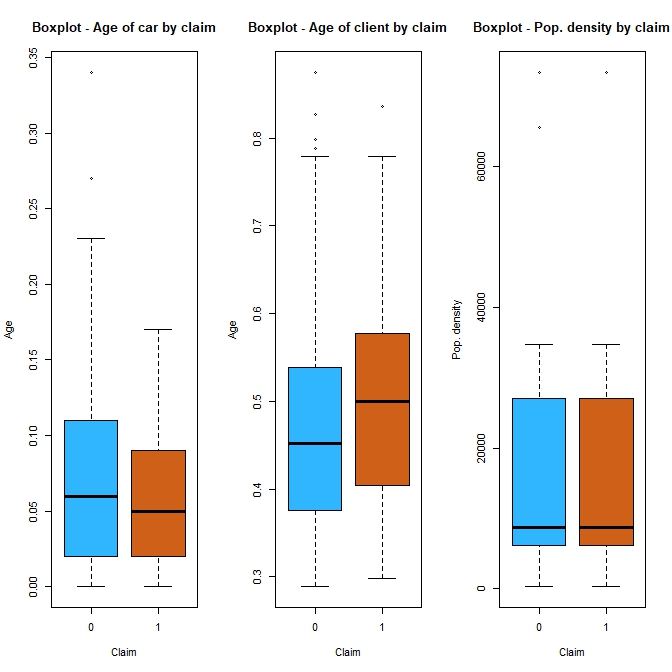
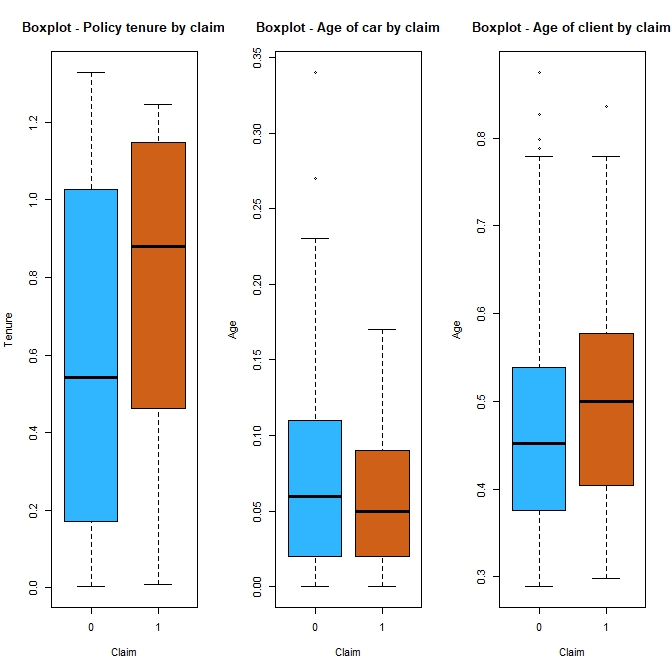
New post 2025

diff --git a/_layouts/code-list.html b/_layouts/code-list.html
@@ -1,0 +1,49 @@
+---
+layout: default
+title: Code
+full_width: true
+---
+
+<h1> Code </h1>
+
+<ul>
+{%- for project in site.projects -%}
+  {% unless forloop.first %}
+</ul>
+  {% endunless %}
+<ul class = "projects">
+  <li>
+    <p><a href="{{ project.url | prepend: site.baseurl }}">{{ project.title }}</a></p>
+    <small><code>[{{ project.lang }}]</code> - {{ project.description }}</small>
+  </li>
+{%- if forloop.last %}
+</ul>
+{%- endif -%}
+{% endfor %}
+
+<style>
+  /*
+  ul.projects {
+    list-style-type: none;
+  }
+    */
+
+  small {
+    color: #666;
+    font-style: italic;
+    width: 30%;
+  }
+
+  small code {
+    font-style: normal;
+  }
+
+  p {
+    margin: 20px 5px 0px 0px;
+    font-size: larger;
+  }
+
+  .projects  {
+    width: 50%;
+  }
+</style>

diff --git a/_layouts/project.html b/_layouts/project.html
@@ -40,6 +40,11 @@ layout: default
       margin-left: 2.5%;
       margin-right: 45%;
     }
+
+    .description {
+      font-size: 1rem;
+      color: grey;
+    }
 </style>
 </head>
 
@@ -52,12 +57,16 @@ layout: default
   %} {{ page.date | date: "%B %-d, %Y" }}
 </p>
 
+{%- if page.description %}
+<p class="description">{{ page.description }}</p>
+{% endif -%}
+
 {{ content }}
 
 <section>
   <div style="clear: both"></div>
   <p class="backarrow">
-    <a href="{% link blog/index.md %}">← Back to all posts</a>
+    <a href="{% link code/index.md %}">← Back to all projects</a>
   </p>
 </section>
 

diff --git a/_includes/head.html b/_includes/head.html
@@ -3,7 +3,7 @@
   <meta http-equiv="X-UA-Compatible" content="IE=edge">
   <meta name="viewport" content="width=device-width, initial-scale=1">
 
-  <link rel="shortcut icon" href="../assets/favicon.svg">
+  <link rel="shortcut icon" href="{{site.baseurl}}/assets/favicon.svg">
 
   {% if page.head_title %}
     <title>{{ page.head_title }}</title>

diff --git a/_layouts/default.html b/_layouts/default.html
@@ -21,6 +21,14 @@
         color: inherit;
         text-decoration: none;
       }
+
+      img {
+        border: 1px solid grey;
+      }
+
+      .subtitle {
+        text-align: left;
+      }
     </style>
   </body>
 </html>

diff --git a/_sass/_extras.scss b/_sass/_extras.scss
@@ -278,7 +278,7 @@ h1.header-title { font-weight: 400;
 
 h2 { font-style: italic;
      font-weight: 400;
-     margin-top: 5.1rem;
+     margin-top: 3rem;
      margin-bottom: 0;
      font-size: 2.2rem;
      line-height: 1; }

diff --git a/_posts/2025-07-20-claim-pred.md b/_posts/2025-07-20-claim-pred.md
@@ -3,77 +3,45 @@ layout: post
 title: "Claims Prediction"
 subtitle: "Part I: Understanding the Data"
 date: 2025-07-20
-published: false
+published: true
 ---
 
-In Spring of 2024, I joined a workshop organized by AXA Germany at the Maastricht Business Days. The actuaries presented their work in the auto insurance segment of the business and tasked us with determining the best model specification to most accurately predict insurance claims in the auto insurance sector.
+In Spring of 2024, I joined a workshop organized by AXA Germany at the Maastricht Business Days. The actuaries presented their work in the automotive insurance segment of the business and tasked us with determining the best model specification to most accurately predict insurance claims in the auto insurance sector. The aim of this project to gain a better understanding of logistic regression in ```R```. 
 
 ## Data
 
-The dataset contains $58,592$ observations of $44$ variables and short descriptions of the variables are provided in the table below. The dataset is larger than what I am used to both in terms of observations and number of variables but I doubt that all the variables are relevant.
+{% marginfigure "pairs" '../assets/claim-pred/claim.jpeg' "Figure $1$: Frequency of Claims." %}
+
+The dataset contains $58,592$ observations of $44$ variables. The dependent variable ```is_claim``` is binary variable representing whether a given policyholder filed a claim in the following $6$ months. The dataset is larger than what I am used to both in terms of observations and number of variables but I doubt that all the variables are relevant. I made the choice to reduce the size of the sample to $1000$ observations and these observations were randomly selected by a custom-made ```sample.row()``` function. Given the small share of people who made a claim in our sample, this segment of the population will referred to as the minority class.
+
+In order to select the relevant variables, I took a look at some online sources. The comparison website [Compare the Market](https://www.comparethemarket.com/car-insurance/content/what-impacts-upon-your-car-insurance/) provides some indications on the factors that impact car insurance premiums. The article claims that one's occupation, annual mileage, address, age, and driving history are important variables in determining one's insurance premium. Other factors include the make and model of your car, the place where the car is parked overnight, and the other drivers name in your insurance policy. Another article by the [Insurance Information Institute](https://www.iii.org/article/what-determines-price-my-auto-insurance-policy) claims that the main factors that influence insurance rates are one's driving record, mileage, location, age and car characteristics such as its (repair) cost, likelihood of theft and engine size{% marginfigure "pairs" '../assets/claim-pred/pairplot.jpeg' "Figure $2$: Pairs plot of chosen variables." %}.
 
 | **Variable**  | *Description* |
-| --------- | ------------------------------------- |
-| policy_id | Unique identifier of the policyholder |
+| ------------- | ------------------------------------- |
 | policy_tenure | Time period of the policy |
 | age_of_car | Normalized age of the car in years |
 | age_of_policyholder | Normalized age of policyholder in years |
 | area_cluster | Area cluster of the policyholder |
-| population density | Population density of the city (Policyholder City) |
-| make | Encoded Manufacturer/company of the car |
-| segment | Segment of the car (A/ B1/ B2/ C1/ C2) |
-| model | Encoded name of the car |
-| fuel_type | Type of fuel used by the car |
-| max_torque | Maximum Torque generated by the car (Nm@rpm) |
-| max_power | Maximum Power generated by the car (bhp@rpm) |
-| engine_type | Type of engine used in the car |
-| airbags | Number of airbags installed in the car |
-| is_esc | Boolean flag indicating whether Electronic Stability Control (ESC) is present in the car or not. |
-| is_adjustable_steering | Boolean flag indicating whether the steering wheel of the car is adjustable or not. |
-| is_tpms | Boolean flag indicating whether Tyre Pressure Monitoring System (TPMS) is present in the car or not. |
-| is_parking_sensors | Boolean flag indicating whether parking sensors are present in the car or not. |
-| is_parking_camera | Boolean flag indicating whether the parking camera is present in the car or not. |
-| rear_brakes_type | Type of brakes used in the rear of the car |
-| displacement | Engine displacement of the car (cc) |
-| cylinder | Number of cylinders present in the engine of the car |
-| transmission_type | Transmission type of the car |
-| gear_box | Number of gears in the car |
-| steering_type | Type of the power steering present in the car |
-| turning_radius | The space a vehicle needs to make a certain turn (Meters) |
-| length | Length of the car (Millimetre) |
-| width | Width of the car (Millimetre) |
-| height | Height of the car (Millimetre) |
-| gross_weight | The maximum allowable weight of the fully-loaded car, including passengers, cargo and equipment (Kg) |
-| is_front_fog_lights | Boolean flag indicating whether front fog lights are available in the car or not. |
-| is_rear_window_wiper | Boolean flag indicating whether the rear window wiper is available in the car or not. |
-| is_rear_window_washer | Boolean flag indicating whether the rear window washer is available in the car or not. |
-| is_rear_window_defogger | Boolean flag indicating whether rear window defogger is available in the car or not. |
-| is_brake_assist | Boolean flag indicating whether the brake assistance feature is available in the car or not. |
-| is_power_door_lock | Boolean flag indicating whether a power door lock is available in the car or not. |
-| is_central_locking | Boolean flag indicating whether the central locking feature is available in the car or not. |
-| is_power_steering | Boolean flag indicating whether power steering is available in the car or not. |
-| is_driver_seat_height_adjustable | Boolean flag indicating whether the height of the driver seat is adjustable or not. |
-| is_day_night_rear_view_mirror | Boolean flag indicating whether day & night rearview mirror is present in the car or not. |
-| is_ecw | Boolean flag indicating whether Engine Check Warning (ECW) is available in the car or not. |
-| is_speed_alert | Boolean flag indicating whether the speed alert system is available in the car or not. |
-| ncap_rating | Safety rating given by NCAP (out of 5) |
-| is_claim | Outcome: Boolean flag indicating whether the policyholder file a claim in the next 6 months or not. |
-
-In order to select the relevant variables, I take a look at some online sources. The comparison website [Compare the Market](https://www.comparethemarket.com/car-insurance/content/what-impacts-upon-your-car-insurance/) provides some indications on the factors that impact car insurance premiums. The article claims that one's occupation, annual mileage, address, age, and driving history are important variables in determining one's insurance premium. Other factors include the make and model of your car, the place where the car is parked overnight, and the other drivers name in your insurance policy. Another article by the [Insurance Information Institute](https://www.iii.org/article/what-determines-price-my-auto-insurance-policy) claims that the main factors that influence insurance rates are one's driving record, mileage, location, age and car characteristics such as its (repair) cost, likelihood of theft and engine size {% marginfigure "pairs" '../assets/claim-pred/pairplot.jpeg' "Figure $1$: Pairs plot of chosen variables." %}.
-
-| **Variable**  | *Description* |
-| --------- | ------------------------------------- |
-| age_of_car | Normalized age of the car in years |
-| age_of_policyholder | Normalized age of policyholder in years |
-| area_cluster | Area cluster of the policyholder |
-| population density | Population density of the city (Policyholder City) |
+| population_density | Population density of the city (Policyholder City) |
 | make | Encoded Manufacturer/company of the car |
 | segment | Segment of the car (A/ B1/ B2/ C1/ C2) |
 | model | Encoded name of the car |
 | engine_type | Type of engine used in the car |
 
-The variables that most resembles those mentioned in the articles are in the table above and are plotted against each other in Figure $1$. In order for the plots to remain clear, onlya random selction of $1000$ observations of the dataset in plotted. However, it is still very difficult to make sense of the data. The visualization does not make any trend appear at first glance. It might be beneficial to plot the relationship between ```is_claim``` and the independent variables individually. but
+The variables that most resembles those mentioned in the articles are in the table above and are plotted against each other in Figure $2$. In order for the plots to remain clear, only a random selction of $1000$ observations of the dataset are plotted. However, it is still very difficult to make sense of the data as the visualization does not make any trend appear at first glance. It may be beneficial to take a look at each independent variable individually.
 
-{% marginfigure "box" '../assets/claim-pred/box.jpeg' " Figure $2$: Boxplots of quantitative variables." %}
+{% marginfigure "box" '../assets/claim-pred/box.jpeg' " Figure $3$: Boxplots of quantitative variables." %}
 
-{% marginfigure "bar" '../assets/claim-pred/bar.jpeg' " Figure $3$: Barplots of qualitative variables." %}
+In Figure $3$, those who filed claims appear to have longer tenures than those who don't. Since driving history is a factor used by insurance companies in the pricing of insurance claims then people with shorter tenures (shorter driving histories with the firm) might be more relunctant to file a claim to avoid negatively impacting their driving record with the firm. While I do not drive yet, I assume that a customer that files a claim in the first year of their policy is a worst customer *(and maybe a worst driver, but that is a big assumption)* than someone that files a claim in their fifth year. Our sample tends to possess more recent models and those that have filed claim do not appear to own sizeably younger or older model but their cars are slightly more recent. Lastly, the minority class in older than the majority class.
+
+Most categorical variables can hardly be displayed in a boxplot and thus require an alternative visualization method. Barplots can be used to show the relative frequency of the two classes for each category.
+
+{% maincolumn '../assets/claim-pred/bar1.jpeg' " Figure $4$: Barplots of qualitative variables." %}
+
+{% marginfigure "bar" '../assets/claim-pred/bar2.jpeg' " Figure $5$: Uglier Barplots." %}
+
+Looking at the bar plots in Figure $4$, it appears that categories that are overrepresented in the minority class are also overrepresented in the majority class. It is possible that the use of other types of visualizations could have led to different conclusion however, the chosen categorical variables do not appear to expose anything differences between the two populations. However, Figure $5$ shows, in a slightly better way, the distributional differences between the two classes. It is much easier to see that some categories are overrepresented or underrepresented in the minority class compared to the majority class.
+
+## Methodology
+
+The analysis will mostly rely on the binomial logistic regression model as the dependent variable is the dummy variable. The validation metrics considered are the AIC for the evaluation of the model specification and the Area Under the Receiver Operating Characteristic curve (AUC-ROC) to evaluate the classication accuracy. 

diff --git a/_posts/2024-09-20-temp-trends.md b/_posts/2024-09-20-temp-trends.md
@@ -6,7 +6,7 @@ date: 2024-09-20
 
 ## Introduction
 
-There exists a growing body of scientific research aimed at assessing the causes and effects of climate change and global warming in the world. While the causes are, today, well-established, it is important to estimate the temperature trends on a regional scale in order to correctly assess the effects on the local ecosystems and improve policymaking. The assignment focused on the Netherlands, a country known for its vulnerability to the rising sea levels and it is highly probable that a sizable increase in temperature would influence the likelihood of such phenomenon. The scope of our investigation was limited to 3 cities: De Bilt, Eelde, and Maastricht over the span of a century *(1907-2023)* and aimed to estimate the presence of a long-term trend in the daily, monthly, and annual temperature data provided by the course coordinator, [Prof. Stephen Smeekes](https://www.stephansmeekes.nl/).
+There exists a growing body of scientific research aimed at assessing the causes and effects of climate change and global warming in the world. While the causes are, today, well-established, it is important to estimate the temperature trends on a regional scale in order to correctly assess the effects on the local ecosystems and improve policymaking. The assignment focused on the Netherlands, a country known for its vulnerability to the rising sea levels and it is highly probable that a sizable increase in temperature would influence the likelihood of such phenomenon. The scope of our investigation was limited to 3 cities: De Bilt, Eelde, and Maastricht over the span of a century *(1907-2023)* and aimed to estimate the presence of a long-term trend in the daily, monthly, and annual temperature data provided by the course coordinator, [Prof. Stephen Smeekes](https://stephansmeekes.com/).
 
 ## Data
 

diff --git a/_projects/wordle.md b/_projects/wordle.md
@@ -1,0 +1,21 @@
+---
+layout: project
+title: "Wordle"
+date: 2024-06-30
+description: This is a package that replicates the New York Times Wordle game in the R Console. The code of this project can be found on <a href="https://github.com/andreghl/wordle">Github</a>.
+lang: R
+---
+
+{% marginfigure "game" '../assets/wordle/game.png' "The game can be played once the package is loaded by running ```wordle()``` and looks as follows." %}
+
+I created this project to learn how to create a package in R. If you wish to install this package on your device, run:
+
+```R
+# install.packages("devtools") 
+devtools::install_github("andreghl/wordle")
+library(wordle)
+
+wordle()
+```
+
+For each attempt, the output is kept at a minimum, only presenting the necessary information. Also, the program does not check whether the attempted word is within the list of available words. This task is left to the player.  []()

diff --git a/index.md b/index.md
@@ -6,4 +6,6 @@ subtitle: André-Ignace Ghonda Lukoki
 weight: 1
 ---
 
-*The corner of the internet where I write about various topics I find interesting.* I am a BSc Economics and Business Economics student at Maastricht University in the Netherlands with an expected graduation in July 2025 and my coursework has mainly focused on economic theory and econometrics. In September 2025, I will start a master's in Econometrics and Operations Research.
+{% marginnote 'cv' "[![CV](assets/cv.svg)](assets/cv.pdf)" %}
+
+*This is corner of the internet where I write about various topics I find interesting.* I am a BSc Economics and Business Economics student at Maastricht University in the Netherlands with an expected graduation in July 2025 and my coursework has mainly focused on economic theory and econometrics. In September 2025, I will start a master's in Econometrics and Operations Research.

diff --git a/code/index.md b/code/index.md
@@ -1,0 +1,9 @@
+---
+layout: code-list
+nav_title: Code
+head_title: Coding Projects
+title: Code
+weight: 3
+---
+
+[![Readme Card](https://github-readme-stats.vercel.app/api/pin/?username=anuraghazra&repo=github-readme-stats)](https://github.com/anuraghazra/github-readme-stats)

diff --git a/_posts/2024-09-02-donut.md b/_posts/2024-09-02-donut.md
@@ -12,4 +12,3 @@ After downloading the code from [GitHub](https://github.com/andreghl/donut), the
 
 {% fullwidth '../assets/donut/1.gif' "A (Slow) Rotating Donut" %}
 
-
